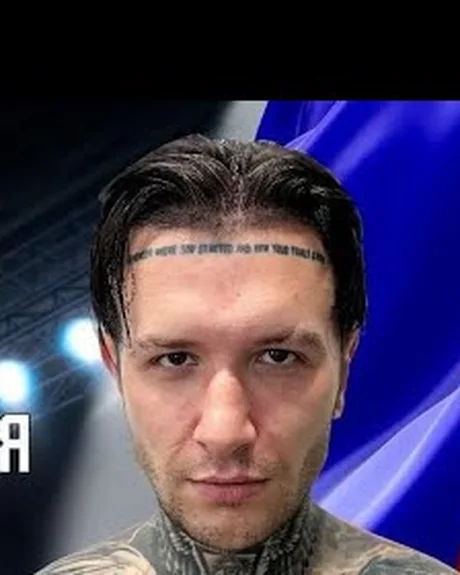
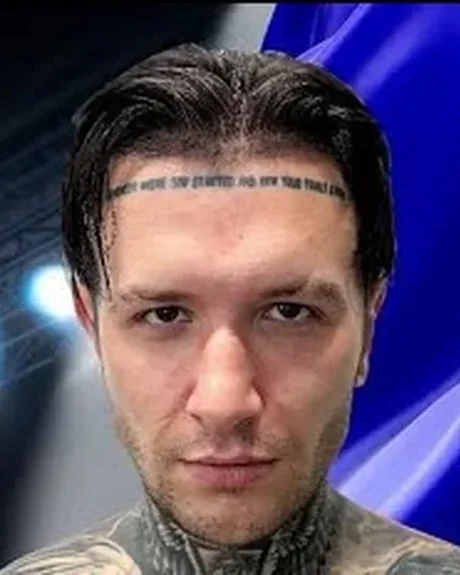
Подготовка к запуску: защита от спама, безопасность, SEO и GEO
- «Осьминог-11» — 11 февраля 2027, отсчёт до гонга на первом экране.
- Формы: Netlify Forms (Akismet, поле-ловушка, проверка времени), каркас public/__forms.html;
  запасной режим «через Direct» сохранён.
- Заголовки: строгая CSP, HSTS, X-Frame-Options DENY, COOP, Permissions-Policy.
- SEO: реальный адрес сайта вместо несуществующего osminog.fight в sitemap, robots,
  canonical и OG; canonical у главной; картинки для соцсетей на всех страницах;
  подробные описания страниц бойцов; коды подтверждения поисковиков из окружения.
- GEO: /llms.txt со справкой о лиге и всеми итогами; robots явно пускает ИИ-поисковики.
- Имена, рост и города бойцов андеркарда «Осьминога-10»; Rutube в sameAs лиги.
- Портреты Ершова, Максимца и Менчи без чёрных полос.
- LAUNCH.md — чек-лист запуска.

Claude-Session: https://claude.ai/code/session_01AHVjuruQpUGeVdXiUgKqDJ

diff --git a/osminog-fight/src/content/fighters.ts b/osminog-fight/src/content/fighters.ts
@@ -245,20 +245,20 @@ const profiles: Fighter[] = [
     status: 'active',
   },
   // ---- Андеркард ОСЬМИНОГ-10 (имена — по официальному постеру карда) ----
-  { slug: 'chernovalov', lastName: 'Черновалов', country: 'BY', disciplines: ['k1'], headshot: '/img/heads/chernovalov.webp', status: 'active' },
-  { slug: 'alimardani', lastName: 'Алимардани', country: 'IR', disciplines: ['k1'], headshot: '/img/heads/alimardani.webp', status: 'active' },
-  { slug: 'burmistrov', lastName: 'Бурмистров', country: 'BY', disciplines: ['mma'], headshot: '/img/heads/burmistrov.webp', status: 'active' },
-  { slug: 'dzaurov', lastName: 'Дзауров', country: 'RU', disciplines: ['mma'], headshot: '/img/heads/dzaurov.webp', status: 'active' },
-  { slug: 'voronik', lastName: 'Вороник', country: 'BY', disciplines: ['k1'], headshot: '/img/heads/voronik.webp', status: 'active' },
+  { slug: 'chernovalov', lastName: 'Черновалов', firstName: 'Павел', heightCm: 176, country: 'BY', disciplines: ['k1'], headshot: '/img/heads/chernovalov.webp', status: 'active' },
+  { slug: 'alimardani', lastName: 'Алимардани', firstName: 'Мохаммад', heightCm: 195, country: 'IR', disciplines: ['k1'], headshot: '/img/heads/alimardani.webp', status: 'active' },
+  { slug: 'burmistrov', lastName: 'Бурмистров', firstName: 'Павел', heightCm: 175, country: 'BY', disciplines: ['mma'], headshot: '/img/heads/burmistrov.webp', status: 'active' },
+  { slug: 'dzaurov', lastName: 'Дзауров', firstName: 'Рамзан', heightCm: 173, city: 'Москва', country: 'RU', disciplines: ['mma'], headshot: '/img/heads/dzaurov.webp', status: 'active' },
+  { slug: 'voronik', lastName: 'Вороник', firstName: 'Андрей', heightCm: 178, country: 'BY', disciplines: ['k1'], headshot: '/img/heads/voronik.webp', status: 'active' },
   { slug: 'sharamko', lastName: 'Шарамко', country: 'RU', disciplines: ['k1'], headshot: '/img/heads/sharamko.webp', status: 'active' },
-  { slug: 'kulbakov', lastName: 'Кульбаков', country: 'BY', disciplines: ['mma'], headshot: '/img/heads/kulbakov.webp', status: 'active' },
-  { slug: 'tsurov', lastName: 'Цуров', country: 'RU', disciplines: ['mma'], headshot: '/img/heads/tsurov.webp', status: 'active' },
-  { slug: 'lysenko', lastName: 'Лысенко', country: 'BY', disciplines: ['muaythai'], headshot: '/img/heads/lysenko.webp', status: 'active' },
-  { slug: 'kudryashov', lastName: 'Кудряшов', country: 'RU', disciplines: ['muaythai'], headshot: '/img/heads/kudryashov.webp', status: 'active' },
-  { slug: 'marchukevich', lastName: 'Марчукевич', country: 'BY', disciplines: ['boxing'], headshot: '/img/heads/marchukevich.webp', status: 'active' },
-  { slug: 'abdulov', lastName: 'Абдулов', country: 'BY', disciplines: ['boxing'], headshot: '/img/heads/abdulov.webp', status: 'active' },
-  { slug: 'krisanov', lastName: 'Крисанов', country: 'BY', disciplines: ['boxing'], headshot: '/img/heads/krisanov.webp', status: 'active' },
-  { slug: 'valetov', lastName: 'Валетов', country: 'RU', disciplines: ['boxing'], headshot: '/img/heads/valetov.webp', status: 'active' },
+  { slug: 'kulbakov', lastName: 'Кульбаков', firstName: 'Геннадий', country: 'BY', disciplines: ['mma'], headshot: '/img/heads/kulbakov.webp', status: 'active' },
+  { slug: 'tsurov', lastName: 'Цуров', firstName: 'Муслим', city: 'Ингушетия', country: 'RU', disciplines: ['mma'], headshot: '/img/heads/tsurov.webp', status: 'active' },
+  { slug: 'lysenko', lastName: 'Лысенко', firstName: 'Антон', heightCm: 181, country: 'BY', disciplines: ['muaythai'], headshot: '/img/heads/lysenko.webp', status: 'active' },
+  { slug: 'kudryashov', lastName: 'Кудряшов', firstName: 'Виктор', heightCm: 181, city: 'Нижний Новгород', country: 'RU', disciplines: ['muaythai'], headshot: '/img/heads/kudryashov.webp', status: 'active' },
+  { slug: 'marchukevich', lastName: 'Марчукевич', firstName: 'Андрей', heightCm: 168, country: 'BY', disciplines: ['boxing'], headshot: '/img/heads/marchukevich.webp', status: 'active' },
+  { slug: 'abdulov', lastName: 'Абдулов', firstName: 'Артур', heightCm: 183, country: 'BY', disciplines: ['boxing'], headshot: '/img/heads/abdulov.webp', status: 'active' },
+  { slug: 'krisanov', lastName: 'Крисанов', firstName: 'Артём', heightCm: 183, country: 'BY', disciplines: ['boxing'], headshot: '/img/heads/krisanov.webp', status: 'active' },
+  { slug: 'valetov', lastName: 'Валетов', firstName: 'Кирилл', heightCm: 183, city: 'Москва', country: 'RU', disciplines: ['boxing'], headshot: '/img/heads/valetov.webp', status: 'active' },
 ];
 
 /** Легенды, выходившие в ринг «Осьминога» (по фотоотчёту mensby.com) */

diff --git a/osminog-fight/src/lib/forms.ts b/osminog-fight/src/lib/forms.ts
@@ -1,32 +1,58 @@
 /**
  * Отправка форм.
- * Если задан NEXT_PUBLIC_FORMS_ENDPOINT — POST JSON туда (Formspree, Getform, свой воркер с Telegram-ботом).
- * Если нет — форма переходит в режим «через Direct»: показывает готовый текст заявки,
- * который можно скопировать и отправить в Instagram @osminog.fight.
+ * 1. NEXT_PUBLIC_FORMS_ENDPOINT задан — POST JSON туда (Formspree, свой воркер с Telegram-ботом).
+ * 2. Иначе — Netlify Forms: все формы сайта уходят в одну форму «zayavka» (каркас — public/__forms.html),
+ *    спам режут Akismet и поле-ловушка _hp. Заявки — в панели Netlify → Forms, оттуда письмо на почту.
+ * 3. Если отправить не вышло (локальная разработка, форма не подключена) — режим «через Direct»:
+ *    готовый текст заявки, который можно скопировать и отправить в Instagram @osminog.fight.
+ * Антиспам до отправки: ловушка _hp и минимальное время заполнения формы.
  */
 import { site } from '@/content/site';
 
 export type SubmitResult = { ok: true; mode: 'sent' | 'direct' } | { ok: false; error: string };
 
+/** Поля, которые Netlify хранит отдельно; всё остальное — одним текстом в details */
+const NETLIFY_FIELDS = ['name', 'email', 'phone'] as const;
+
 export async function submitForm(kind: string, data: Record<string, unknown>): Promise<SubmitResult> {
-  // Антиспам: скрытое поле-ловушка и минимальное время заполнения
   if (data._hp) return { ok: true, mode: 'sent' };
   if (typeof data._t === 'number' && Date.now() - data._t < 2500) return { ok: false, error: 'Слишком быстро. Вы точно человек?' };
   const { _hp, _t, ...payload } = data;
   void _hp;
   void _t;
 
-  if (!site.formsEndpoint) return { ok: true, mode: 'direct' };
+  if (site.formsEndpoint) {
+    try {
+      const res = await fetch(site.formsEndpoint, {
+        method: 'POST',
+        headers: { 'Content-Type': 'application/json', Accept: 'application/json' },
+        body: JSON.stringify({ form: kind, ...payload, page: location.href }),
+      });
+      if (!res.ok) throw new Error(String(res.status));
+      return { ok: true, mode: 'sent' };
+    } catch {
+      return { ok: false, error: 'network' };
+    }
+  }
+
+  // Netlify Forms
+  const body = new URLSearchParams({ 'form-name': 'zayavka', subject: `Осьминог: ${kind}`, kind, _hp: '', page: location.href });
+  const rest: string[] = [];
+  for (const [k, v] of Object.entries(payload)) {
+    const val = String(v ?? '').slice(0, 2000);
+    if (!val) continue;
+    if ((NETLIFY_FIELDS as readonly string[]).includes(k)) body.set(k, val);
+    else if (k === 'contact' && /@/.test(val)) body.set('email', val);
+    else if (k === 'contact') body.set('phone', val);
+    else rest.push(`${k}: ${val}`);
+  }
+  if (rest.length) body.set('details', rest.join('\n'));
   try {
-    const res = await fetch(site.formsEndpoint, {
-      method: 'POST',
-      headers: { 'Content-Type': 'application/json', Accept: 'application/json' },
-      body: JSON.stringify({ form: kind, ...payload, page: location.href }),
-    });
+    const res = await fetch('/__forms.html', { method: 'POST', headers: { 'Content-Type': 'application/x-www-form-urlencoded' }, body: body.toString() });
     if (!res.ok) throw new Error(String(res.status));
     return { ok: true, mode: 'sent' };
   } catch {
-    return { ok: false, error: 'network' };
+    return { ok: true, mode: 'direct' };
   }
 }
 

diff --git a/osminog-fight/src/app/llms.txt/route.ts b/osminog-fight/src/app/llms.txt/route.ts
@@ -1,0 +1,51 @@
+import { site, disciplines } from '@/content/site';
+import { fullName, getEvents, getFighter, getFighters, resolveCorner } from '@/lib/cms';
+import { fmtDate } from '@/lib/format';
+
+export const dynamic = 'force-static';
+
+/**
+ * /llms.txt — короткая справка о лиге для ИИ-поисковиков (ChatGPT, Claude, Perplexity, Яндекс-нейро):
+ * факты, турниры с итогами и ссылки на страницы. Собирается из тех же данных, что и сайт.
+ */
+const method: Record<string, string> = { KO: 'нокаут', TKO: 'технический нокаут', SUB: 'сдача', UD: 'единогласное решение', SD: 'раздельное решение', MD: 'решение большинства', DEC: 'решение судей', DQ: 'дисквалификация', NC: 'бой не состоялся', DRAW: 'ничья' };
+
+export function GET() {
+  const u = (p: string) => `${site.url}${p}`;
+  const events = getEvents();
+  const next = events.find((e) => e.status === 'upcoming');
+  const champions = getFighters().filter((f) => f.badges?.includes('champion'));
+  const lines: string[] = [
+    `# ${site.name} (${site.nameLatin})`,
+    '',
+    `> ${site.description}`,
+    '',
+    `- Организатор: ${site.legalName}, ${site.city}, Беларусь. Лига проводит турниры с ${site.since} года.`,
+    `- Дисциплины: ${Object.values(disciplines).map((d) => d.label).join(', ')}.`,
+    `- Билеты: ${site.contacts.ticketSupport.name} (${site.contacts.ticketSupport.phone}).`,
+    `- Видео боёв: YouTube ${site.socials.youtube}, Rutube ${site.socials.rutube}. Instagram: ${site.socials.instagram}`,
+    '',
+    '## Следующий турнир',
+    next ? `- [${next.title}](${u(`/events/${next.slug}/`)}): ${next.date ? fmtDate(next.date) : 'дата уточняется'}, ${[next.venue, next.city].filter(Boolean).join(', ')}. Билеты: ${u('/tickets/')}` : '- Дата следующего турнира будет объявлена.',
+    '',
+    '## Чемпионы лиги',
+    ...champions.map((f) => `- [${fullName(f)}](${u(`/fighters/${f.slug}/`)})${f.weightKg ? `, до ${f.weightKg} кг` : ''}${f.titles?.[0] ? ` — ${f.titles[0]}` : ''}`),
+    '',
+    '## Турниры и итоги боёв',
+  ];
+  for (const e of events.filter((x) => x.status === 'past')) {
+    lines.push('', `### [${e.title}${e.collab ? ` ${e.collab}` : ''}](${u(`/events/${e.slug}/`)}) — ${e.date ? fmtDate(e.date) : 'дата не указана'}${e.venue ? `, ${e.venue}` : ''}, ${e.city}`);
+    for (const b of e.bouts) {
+      const r = resolveCorner(b.red).name;
+      const bl = resolveCorner(b.blue).name;
+      const res = b.result;
+      const outcome = !res ? 'итог не опубликован' : res.winner === 'draw' ? 'ничья' : `победа: ${res.winner === 'red' ? r : bl}${res.method && res.method !== 'DRAW' ? `, ${method[res.method]}` : ''}${res.round ? `, ${res.round}-й раунд` : ''}`;
+      lines.push(`- ${r} — ${bl} (${disciplines[b.discipline].label}${b.weightKg ? `, ${b.weightKg} кг` : ''}): ${outcome}`);
+    }
+  }
+  lines.push('', '## Разделы', ...[
+    ['Турниры', '/events/'], ['Бойцы', '/fighters/'], ['Чемпионы и рейтинги', '/rankings/'], ['Результаты', '/results/'], ['Билеты', '/tickets/'], ['Видео боёв', '/watch/'], ['О лиге', '/about/'], ['Вопросы и ответы', '/faq/'], ['Контакты', '/contacts/'],
+  ].map(([n, p]) => `- [${n}](${u(p)})`));
+  void getFighter;
+  return new Response(lines.join('\n') + '\n', { headers: { 'Content-Type': 'text/plain; charset=utf-8' } });
+}

diff --git a/osminog-fight/src/app/fighters/[slug]/page.tsx b/osminog-fight/src/app/fighters/[slug]/page.tsx
@@ -26,12 +26,20 @@ export async function generateMetadata({ params }: { params: Promise<{ slug: str
   if (!f) return {};
   const name = fullName(f);
   const rec = f.record ? `рекорд ${recordStr(f)}` : '';
+  const st = getFighterStats(f.slug);
+  const evs = Array.from(new Set(getFighterBouts(f.slug).map((b) => b.event.title)));
+  const where = f.country !== 'XX' ? ` (${countries[f.country].name}${f.city ? `, ${f.city}` : ''})` : '';
+  const league = `${st.fights} ${plural(st.fights, ['бой', 'боя', 'боёв'])} в лиге «Осьминог»${st.wins + st.losses + st.draws ? `: ${st.wins} ${plural(st.wins, ['победа', 'победы', 'побед'])}, ${st.losses} ${plural(st.losses, ['поражение', 'поражения', 'поражений'])}` : ''}`;
   return {
-    title: `${name}${f.nickname ? ` «${f.nickname}»` : ''} — ${[rec, countries[f.country].name].filter(Boolean).join(', ')}`,
-    description: `${name}: ${f.disciplines.map((d) => disciplines[d].label).join(', ')}${f.weightKg ? `, до ${f.weightKg} кг` : ''}. ${f.bio?.[0] ?? ''}`.trim(),
+    title: `${name}${f.nickname ? ` «${f.nickname}»` : ''} — ${[rec, f.country !== 'XX' ? countries[f.country].name : ''].filter(Boolean).join(', ') || 'боец лиги «Осьминог»'}`,
+    description: [
+      `${name}${where} — ${f.disciplines.map((d) => disciplines[d].label).join(', ') || 'единоборства'}${f.weightKg ? `, до ${f.weightKg} кг` : ''}${f.record ? `, рекорд ${recordStr(f)}` : ''}${f.club ? `, клуб «${f.club}»` : ''}.`,
+      `${league}${evs.length ? ` (${evs.slice(0, 3).join(', ')})` : ''}.`,
+      f.bio?.[0] ?? 'Профиль, статистика, все бои и видео.',
+    ].join(' '),
     alternates: { canonical: `/fighters/${f.slug}/` },
-    // OG-картинки генерирует scripts/og.mjs (npm run og) — для бойцов с портретом
-    openGraph: f.photo ? { images: [{ url: `/og/fighters/${f.slug}.jpg`, width: 1200, height: 630, alt: name }] } : undefined,
+    // OG: карточка из scripts/og.mjs для бойцов с портретом, иначе — портрет или общая картинка лиги
+    openGraph: { images: [f.photo ? { url: `/og/fighters/${f.slug}.jpg`, width: 1200, height: 630, alt: name } : f.headshot ? { url: f.headshot, width: 460, height: 575, alt: name } : { url: '/og/default.jpg', width: 1200, height: 630, alt: site.name }] },
   };
 }
 

diff --git a/osminog-fight/src/content/events.ts b/osminog-fight/src/content/events.ts
@@ -17,12 +17,13 @@ export const events: FightEvent[] = [
     number: 11,
     title: 'ОСЬМИНОГ-11',
     tagline: 'Бездна готовит следующий выпуск',
-    date: null,
+    /** Время начала и площадка — уточняются; пока только день */
+    date: '2027-02-11',
     status: 'upcoming',
     city: 'Минск',
     story: [
       'Юбилей позади. Следующий «Осьминог» уже собирается в глубине: новые пары, реванши и бойцы, которых вы ещё не видели.',
-      'Дата, площадка и кард — первыми у подписчиков. Оставьте контакт, и мы напишем, как только откроются продажи.',
+      '11 февраля 2027 года. Площадка, время и кард — первыми у подписчиков. Оставьте контакт, и мы напишем, как только откроются продажи.',
     ],
     bouts: [],
     tickets: { status: 'soon', vendor: 'TicketPro', currency: 'BYN' },

diff --git a/osminog-fight/src/app/robots.ts b/osminog-fight/src/app/robots.ts
@@ -3,9 +3,20 @@ import { site } from '@/content/site';
 
 export const dynamic = 'force-static';
 
+/**
+ * Индексация: открыто всё публичное, закрыты личный кабинет и служебный каркас форм.
+ * ИИ-поисковики (ChatGPT, Claude, Perplexity, Gemini, Яндекс-нейро) допущены явно —
+ * чтобы лига попадала в ответы ИИ (GEO); краткая справка для них — /llms.txt.
+ */
+const closed = ['/me/', '/__forms.html'];
+const aiBots = ['GPTBot', 'OAI-SearchBot', 'ChatGPT-User', 'ClaudeBot', 'Claude-User', 'Claude-SearchBot', 'PerplexityBot', 'Perplexity-User', 'Google-Extended', 'Applebot-Extended', 'YandexAdditional', 'YandexAdditionalBot'];
+
 export default function robots(): MetadataRoute.Robots {
   return {
-    rules: [{ userAgent: '*', allow: '/', disallow: ['/me/'] }],
+    rules: [
+      { userAgent: '*', allow: '/', disallow: closed },
+      { userAgent: aiBots, allow: '/', disallow: closed },
+    ],
     sitemap: `${site.url}/sitemap.xml`,
     host: site.url,
   };

diff --git a/osminog-fight/src/app/events/[slug]/page.tsx b/osminog-fight/src/app/events/[slug]/page.tsx
@@ -1,3 +1,5 @@
+import { existsSync } from 'node:fs';
+import { join } from 'node:path';
 import type { Metadata } from 'next';
 import Link from 'next/link';
 import { notFound } from 'next/navigation';
@@ -31,7 +33,8 @@ export async function generateMetadata({ params }: { params: Promise<{ slug: str
     title: `${e.title}${e.collab ? ' ' + e.collab : ''} — ${when}`,
     description: `${e.tagline}. ${[e.venue, e.city].filter(Boolean).join(', ')}. Кард, расписание, билеты, видео боёв.`,
     alternates: { canonical: `/events/${e.slug}/` },
-    openGraph: { images: [{ url: `/og/events/${e.slug}.jpg`, width: 1200, height: 630 }] },
+    // карточка из scripts/og.mjs, если сгенерирована; иначе — общая картинка лиги
+    openGraph: { images: [existsSync(join(process.cwd(), 'public/og/events', `${e.slug}.jpg`)) ? { url: `/og/events/${e.slug}.jpg`, width: 1200, height: 630 } : { url: '/og/default.jpg', width: 1200, height: 630 }] },
   };
 }
 

diff --git a/osminog-fight/src/content/site.ts b/osminog-fight/src/content/site.ts
@@ -7,7 +7,8 @@ export const site = {
   nameLatin: 'OSMINOG FIGHT',
   league: 'Belarusian Fight League',
   legalName: 'ООО «Октопус файтинг»',
-  url: process.env.NEXT_PUBLIC_SITE_URL || 'https://osminog.fight',
+  /** Адрес сайта для поисковиков (canonical, sitemap, OG). Свой домен — задать NEXT_PUBLIC_SITE_URL в netlify.toml */
+  url: process.env.NEXT_PUBLIC_SITE_URL || 'https://osminog-fight.netlify.app',
   since: 2009,
   city: 'Минск',
   description:
@@ -26,6 +27,7 @@ export const site = {
     instagram: 'https://www.instagram.com/osminog.fight/',
     instagramHandle: '@osminog.fight',
     youtube: 'https://www.youtube.com/@chinukgym',
+    rutube: 'https://rutube.ru/channel/72319754/',
     /** ⚠ Заполните, когда появится официальный канал */
     telegram: '',
   },

diff --git a/osminog-fight/src/app/tickets/page.tsx b/osminog-fight/src/app/tickets/page.tsx
@@ -21,7 +21,7 @@ export default function TicketsPage() {
       <PageHero
         eyebrow={`Билеты · ${ev.title}`}
         title={['Займи место', <span key="s" className="text-blood glow-blood">у ринга</span>]}
-        lead={ev.date ? `${fmtDate(ev.date)} · ${fmtTime(ev.date)} · ${[ev.venue, ev.city].filter(Boolean).join(', ')}` : `${ev.title}: дата и старт продаж — скоро. Выберите места сейчас — напишем первыми.`}
+        lead={ev.date ? [fmtDate(ev.date), fmtTime(ev.date), [ev.venue, ev.city].filter(Boolean).join(', ')].filter(Boolean).join(' · ') : `${ev.title}: дата и старт продаж — скоро. Выберите места сейчас — напишем первыми.`}
         crumbs={[{ name: 'Билеты', path: '/tickets/' }]}
         compact
       />

diff --git a/osminog-fight/public/__forms.html b/osminog-fight/public/__forms.html
@@ -1,0 +1,18 @@
+<!doctype html>
+<html lang="ru">
+<head><meta charset="utf-8"><meta name="robots" content="noindex"><title>Формы</title></head>
+<body>
+<!-- Каркас для Netlify Forms: сюда уходят все заявки сайта (см. src/lib/forms.ts). Не удалять. -->
+<form name="zayavka" method="POST" data-netlify="true" netlify-honeypot="_hp" hidden>
+  <input type="hidden" name="form-name" value="zayavka">
+  <input type="hidden" name="subject" value="Осьминог: заявка с сайта">
+  <input name="name" type="text">
+  <input name="kind" type="text">
+  <input name="email" type="email">
+  <input name="phone" type="tel">
+  <textarea name="details"></textarea>
+  <input name="page" type="text">
+  <input name="_hp" type="text">
+</form>
+</body>
+</html>

diff --git a/osminog-fight/src/app/layout.tsx b/osminog-fight/src/app/layout.tsx
@@ -35,6 +35,11 @@ export const metadata: Metadata = {
   icons: { icon: [{ url: asset('/favicon.svg'), type: 'image/svg+xml' }, { url: asset('/icon-192.png'), sizes: '192x192' }], apple: asset('/apple-touch-icon.png') },
   manifest: asset('/manifest.webmanifest'),
   formatDetection: { telephone: false },
+  // коды подтверждения Google Search Console и Яндекс.Вебмастера — в netlify.toml ([build.environment])
+  verification: {
+    ...(process.env.NEXT_PUBLIC_GOOGLE_VERIFICATION ? { google: process.env.NEXT_PUBLIC_GOOGLE_VERIFICATION } : {}),
+    ...(process.env.NEXT_PUBLIC_YANDEX_VERIFICATION ? { yandex: process.env.NEXT_PUBLIC_YANDEX_VERIFICATION } : {}),
+  },
 };
 
 export const viewport: Viewport = {

diff --git a/osminog-fight/src/components/sections/Hero.tsx b/osminog-fight/src/components/sections/Hero.tsx
@@ -58,7 +58,7 @@ export function Hero() {
                   <span className="chip chip-blood">Следующий</span>
                   <span className="display-upright text-[28px] transition-colors group-hover:text-accent">{next.title}</span>
                   <span className="mono text-[12px] uppercase tracking-[0.18em] text-mute">
-                    {next.date ? `${fmtDate(next.date, { day: 'numeric', month: 'long' })} · ${fmtTime(next.date)}` : 'дата — скоро'}
+                    {next.date ? [fmtDate(next.date, { day: 'numeric', month: 'long' }), fmtTime(next.date)].filter(Boolean).join(' · ') : 'дата — скоро'}
                   </span>
                 </Link>
               )}
